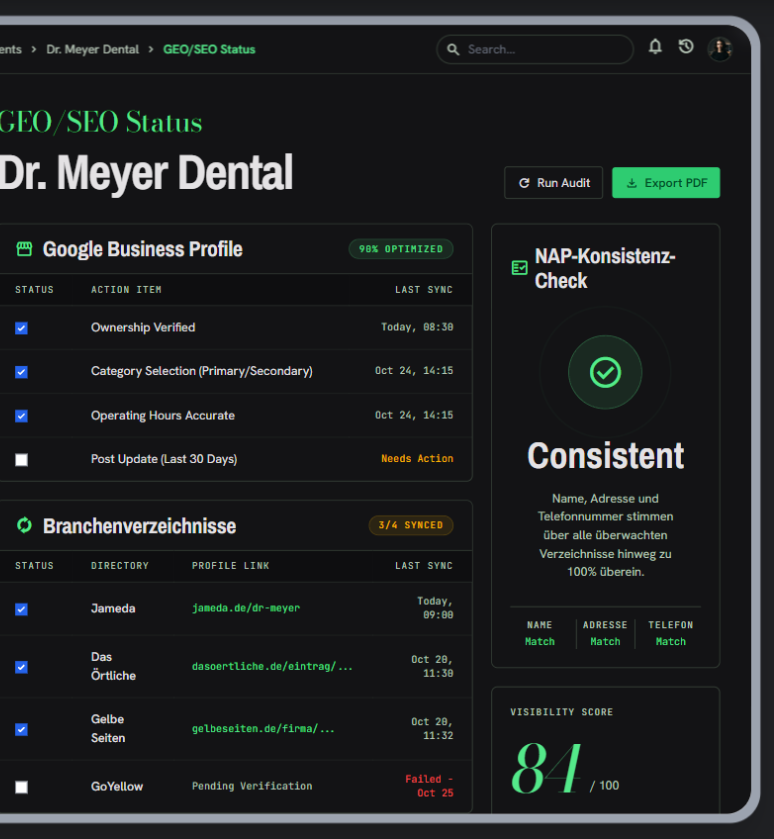
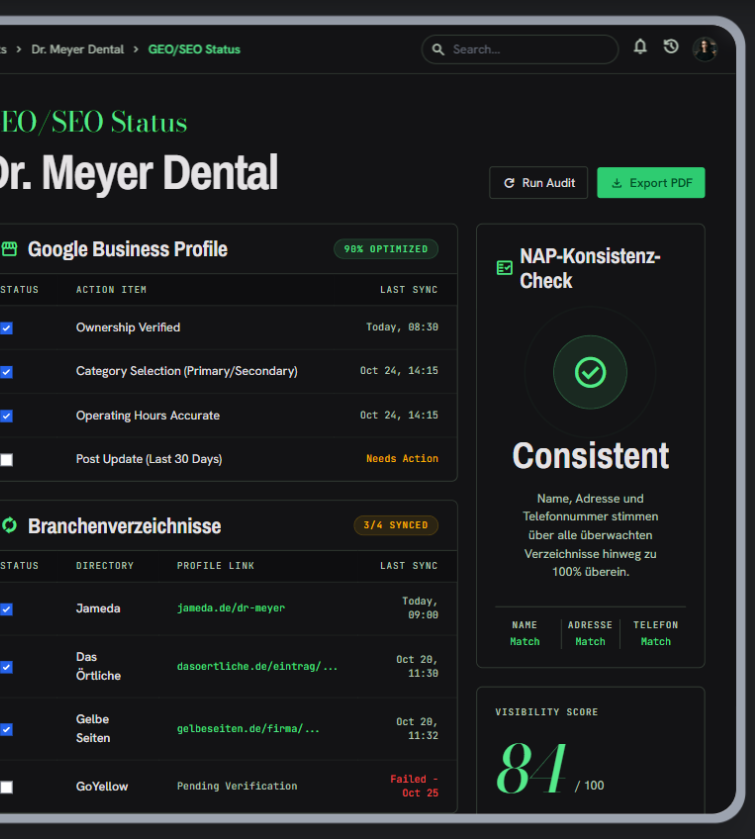
Render full complete browser mockups without extra dark borders or nested url bars, ensuring clean text alignment side by side

diff --git a/src/components/LabTeaserSection.tsx b/src/components/LabTeaserSection.tsx
@@ -562,23 +562,11 @@ export function LabTeaserSection({ onNavigate }: LabTeaserSectionProps) {
           <div className="lab-teaser-row lab-item-card layout-left flex flex-col md:flex-row items-center justify-between gap-8 md:gap-16">
             <div className="lab-teaser-preview lab-item-mockup w-full md:w-7/12 flex justify-center">
               <div className="w-full max-w-[620px] rounded-xl overflow-hidden border border-white/10 bg-[#121414] shadow-2xl transition-all duration-300 hover:border-white/20 hover:shadow-[0_20px_50px_rgba(0,0,0,0.5)]">
-                <div className="bg-[#1c1e1f] px-4 py-2.5 flex items-center gap-2 border-b border-white/5">
-                  <div className="flex items-center gap-1.5">
-                    <span className="w-2.5 h-2.5 rounded-full bg-[#FF5F56]" />
-                    <span className="w-2.5 h-2.5 rounded-full bg-[#FFBD2E]" />
-                    <span className="w-2.5 h-2.5 rounded-full bg-[#27C93F]" />
-                  </div>
-                  <div className="flex-1 bg-[#121414]/60 rounded-md px-3 py-1 text-[11px] text-white/40 font-mono text-center truncate">
-                    repute.greenlabz-studio.de/dashboard
-                  </div>
-                </div>
-                <div className="p-1 bg-[#0d0e0f]">
-                  <img 
-                    src="/assets/apps/repute-preview.png" 
-                    alt="Repute Dashboard Preview" 
-                    className="w-full h-auto rounded-b-lg block"
-                  />
-                </div>
+                <img 
+                  src="/assets/apps/repute-preview.png" 
+                  alt="Repute Dashboard Preview" 
+                  className="w-full h-auto rounded-xl block"
+                />
               </div>
             </div>
 
@@ -622,23 +610,11 @@ export function LabTeaserSection({ onNavigate }: LabTeaserSectionProps) {
           <div className="lab-teaser-row lab-item-card layout-right flex flex-col md:flex-row-reverse items-center justify-between gap-8 md:gap-16">
             <div className="lab-teaser-preview lab-item-mockup w-full md:w-7/12 flex justify-center">
               <div className="w-full max-w-[620px] rounded-xl overflow-hidden border border-white/10 bg-[#121414] shadow-2xl transition-all duration-300 hover:border-white/20 hover:shadow-[0_20px_50px_rgba(0,0,0,0.5)]">
-                <div className="bg-[#1c1e1f] px-4 py-2.5 flex items-center gap-2 border-b border-white/5">
-                  <div className="flex items-center gap-1.5">
-                    <span className="w-2.5 h-2.5 rounded-full bg-[#FF5F56]" />
-                    <span className="w-2.5 h-2.5 rounded-full bg-[#FFBD2E]" />
-                    <span className="w-2.5 h-2.5 rounded-full bg-[#27C93F]" />
-                  </div>
-                  <div className="flex-1 bg-[#121414]/60 rounded-md px-3 py-1 text-[11px] text-white/40 font-mono text-center truncate">
-                    crm.greenlabz-studio.de/dashboard
-                  </div>
-                </div>
-                <div className="p-1 bg-[#0d0e0f]">
-                  <img 
-                    src="/assets/apps/crm-preview.png" 
-                    alt="GreenLabz CRM Dashboard Preview" 
-                    className="w-full h-auto rounded-b-lg block"
-                  />
-                </div>
+                <img 
+                  src="/assets/apps/crm-preview.png" 
+                  alt="GreenLabz CRM Dashboard Preview" 
+                  className="w-full h-auto rounded-xl block"
+                />
               </div>
             </div>
 
